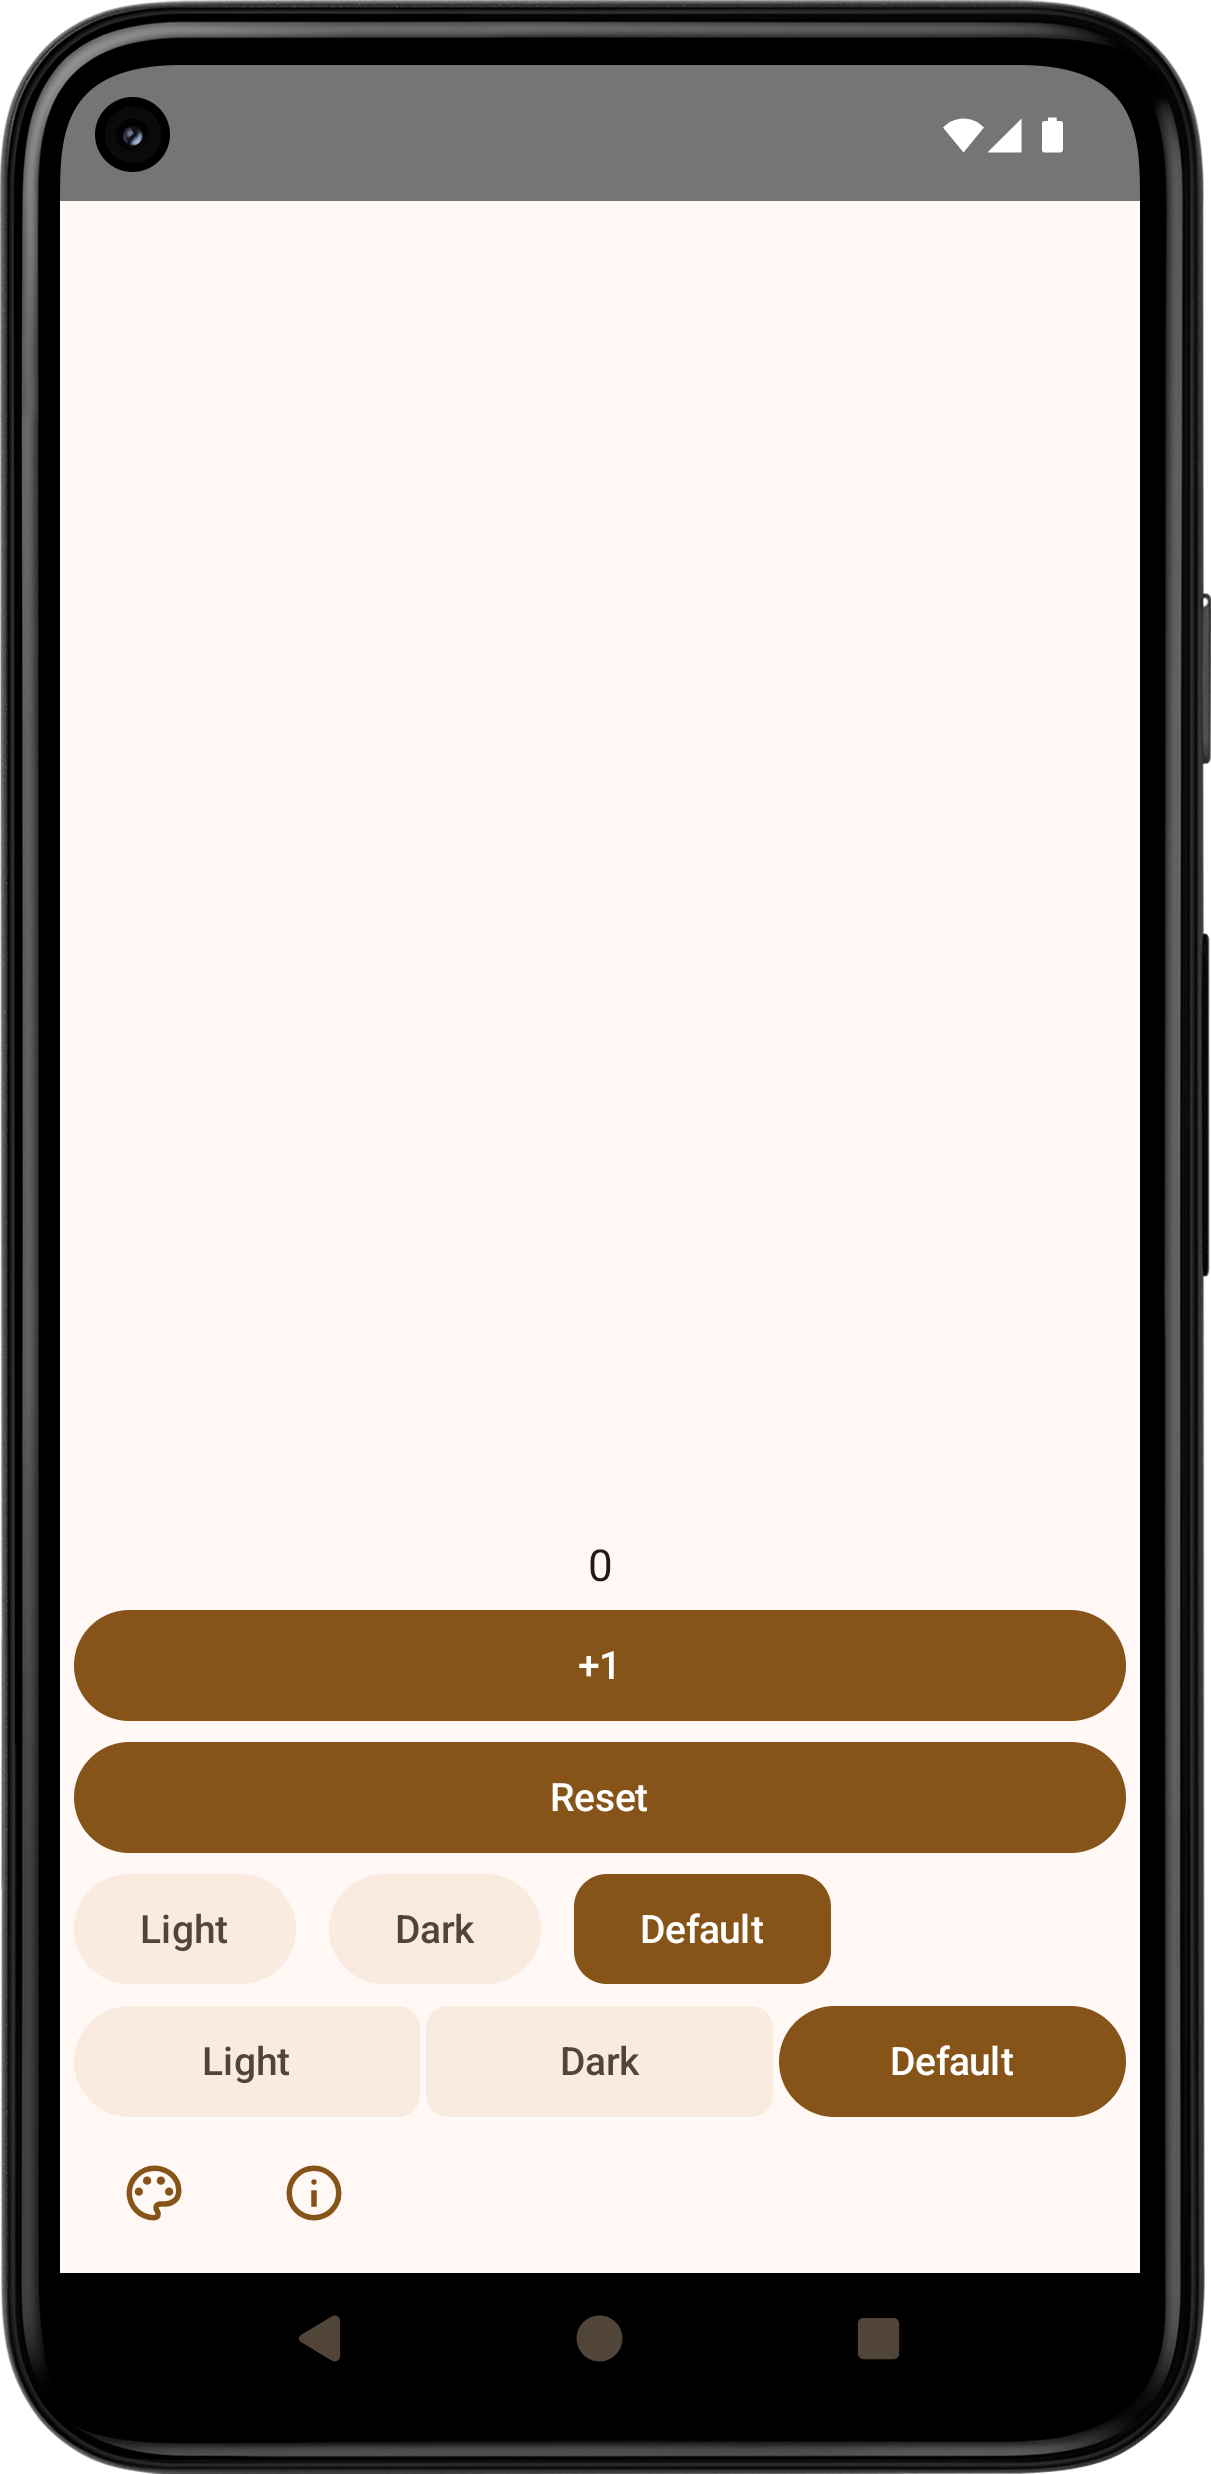
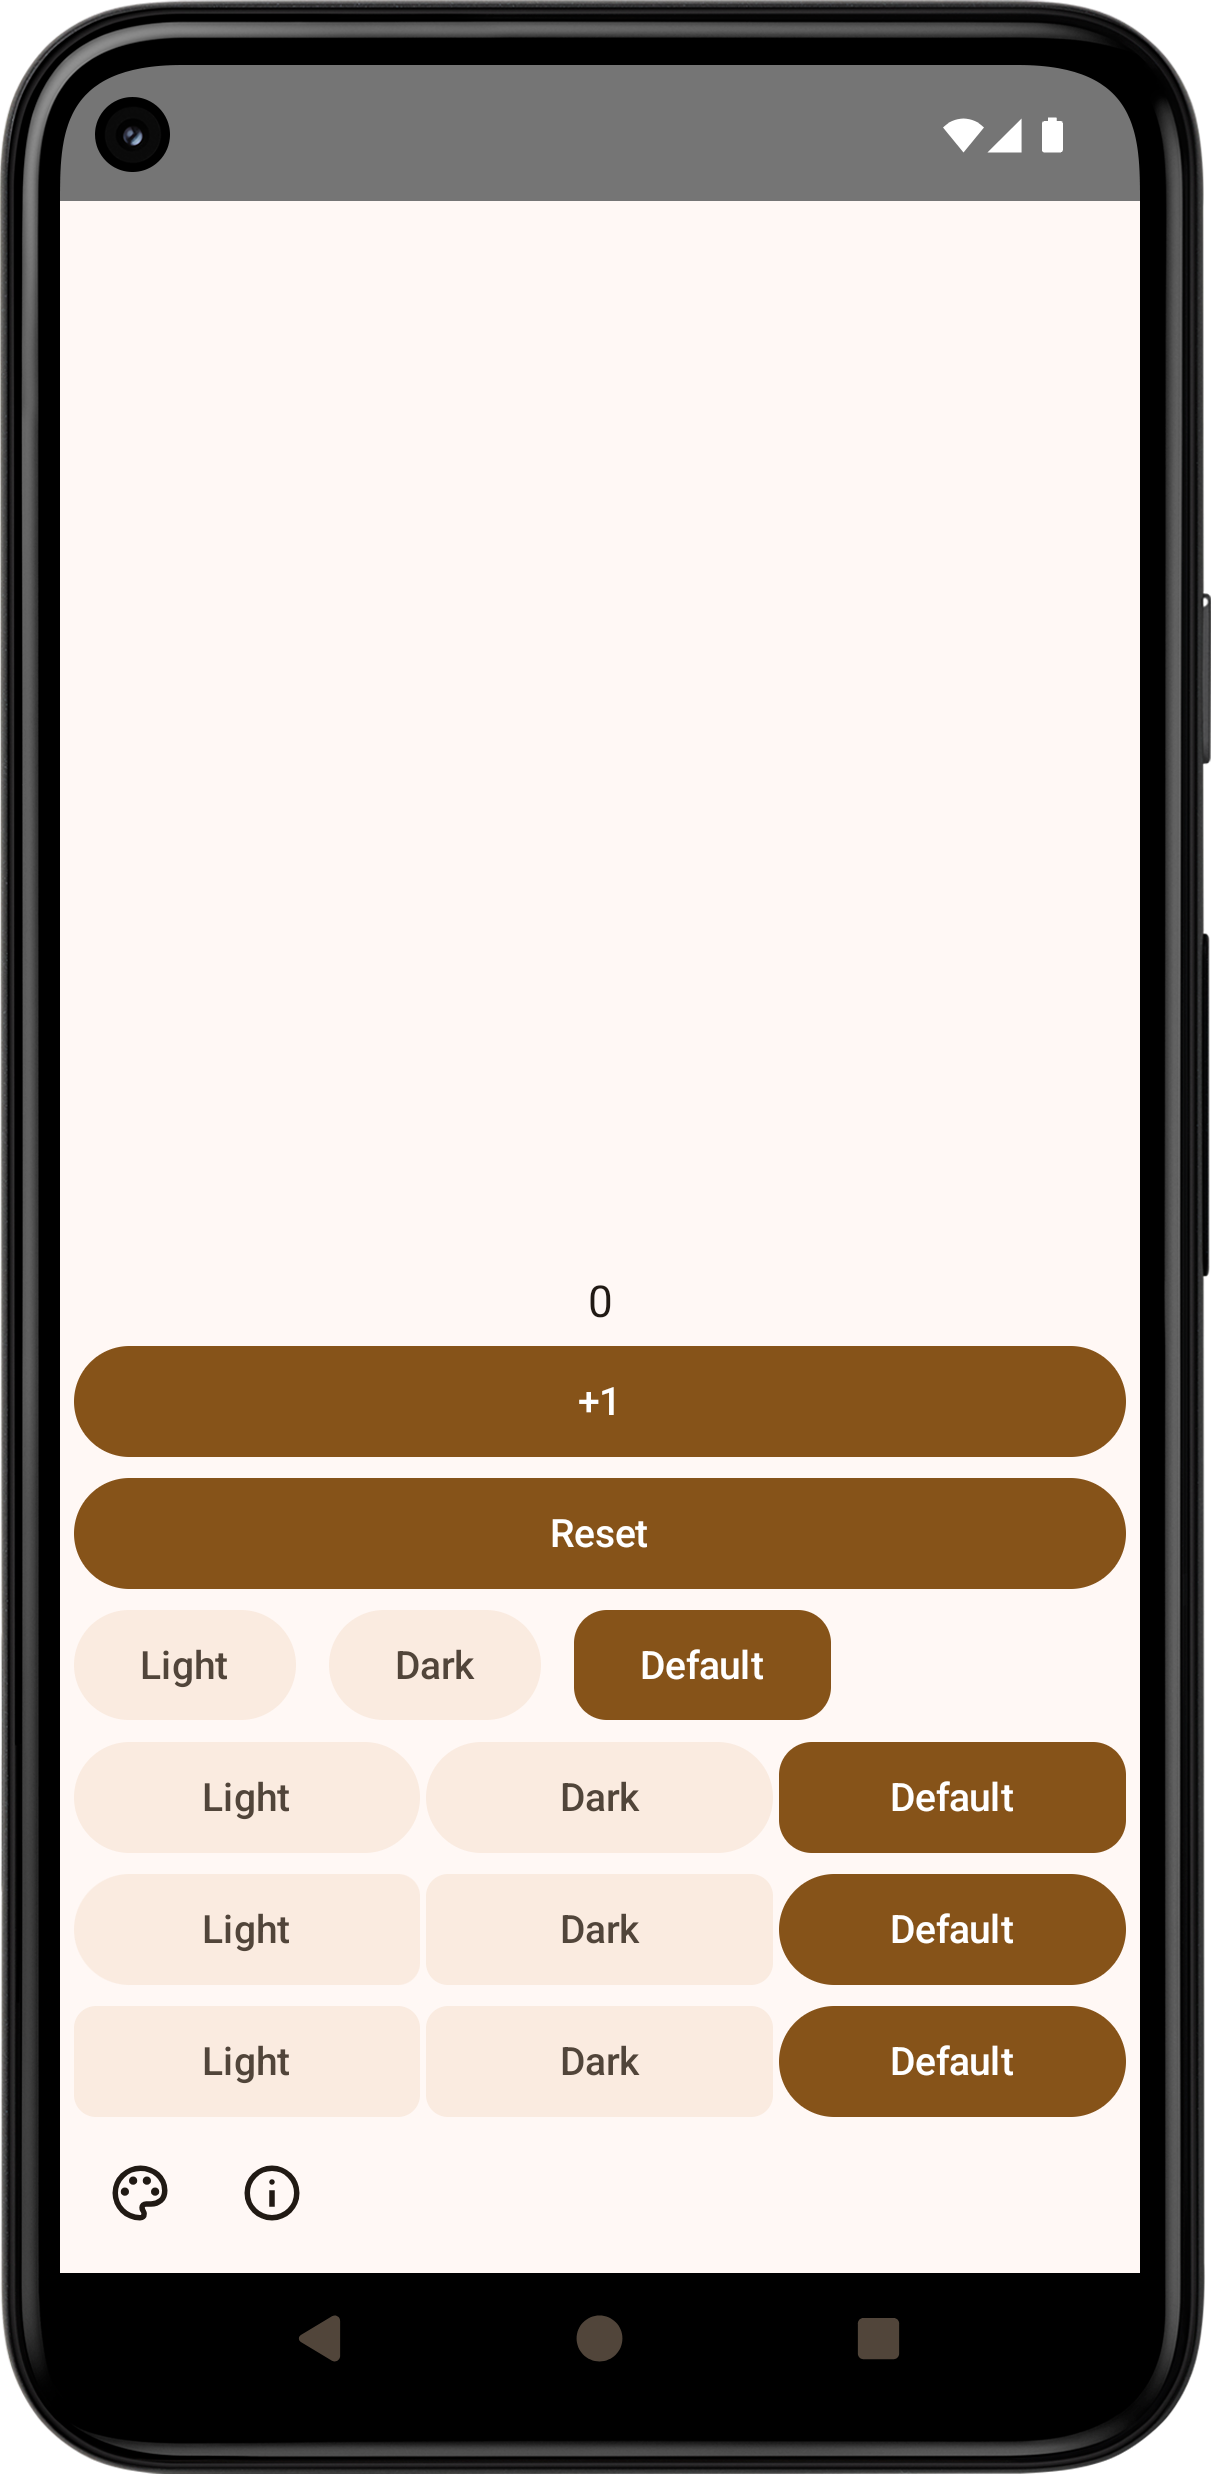
Update

Changed region(s): [[0.0611, 0.5291, 0.9472, 0.8092], [0.1833, 0.8715, 0.275, 0.9026], [0.0917, 0.8715, 0.1528, 0.9026]]

diff --git a/counter/src/main/java/com/github/manabu_nakamura/counter/MainActivity.kt b/counter/src/main/java/com/github/manabu_nakamura/counter/MainActivity.kt
@@ -24,6 +24,8 @@ import androidx.compose.material3.ButtonGroup
 import androidx.compose.material3.ButtonGroupDefaults
 import androidx.compose.material3.ExperimentalMaterial3Api
 import androidx.compose.material3.Icon
+import androidx.compose.material3.IconButton
+import androidx.compose.material3.IconButtonDefaults
 import androidx.compose.material3.MaterialTheme
 import androidx.compose.material3.ModalBottomSheet
 import androidx.compose.material3.PlainTooltip
@@ -310,12 +312,82 @@ class MainActivity : ComponentActivity() {
                                     Modifier.weight(
                                         1f
                                     ),
+//                                    shapes = when (index) {
+//                                        0 -> ButtonGroupDefaults.connectedLeadingButtonShapes()
+//                                        themes.lastIndex -> ButtonGroupDefaults.connectedTrailingButtonShapes()
+//                                        else -> ButtonGroupDefaults.connectedMiddleButtonShapes()
+//                                    }
+//                                    shapes = ButtonGroupDefaults.connectedMiddleButtonShapes()
+                                ) {
+                                    Text(
+                                        theme
+                                    )
+                                }
+                            }
+                        }
+                        Row(
+                            Modifier.fillMaxWidth(),
+                            Arrangement.spacedBy(
+                                ButtonGroupDefaults.ConnectedSpaceBetween
+                            )
+                        ) {
+                            val themes = stringArrayResource(
+                                R.array.theme
+                            )
+                            var selectedIndex = theme()
+                            themes.forEachIndexed { index, theme ->
+                                ToggleButton(
+                                    selectedIndex == index,
+                                    {
+                                        selectedIndex = index
+                                        theme(
+                                            index
+                                        )
+                                    },
+                                    Modifier.weight(
+                                        1f
+                                    ),
                                     shapes = when (index) {
                                         0 -> ButtonGroupDefaults.connectedLeadingButtonShapes()
                                         themes.lastIndex -> ButtonGroupDefaults.connectedTrailingButtonShapes()
                                         else -> ButtonGroupDefaults.connectedMiddleButtonShapes()
                                     }
 //                                    shapes = ButtonGroupDefaults.connectedMiddleButtonShapes()
+                                ) {
+                                    Text(
+                                        theme
+                                    )
+                                }
+                            }
+                        }
+                        Row(
+                            Modifier.fillMaxWidth(),
+                            Arrangement.spacedBy(
+                                ButtonGroupDefaults.ConnectedSpaceBetween
+                            )
+                        ) {
+                            val themes = stringArrayResource(
+                                R.array.theme
+                            )
+                            var selectedIndex = theme()
+                            themes.forEachIndexed { index, theme ->
+                                ToggleButton(
+                                    selectedIndex == index,
+                                    {
+                                        selectedIndex = index
+                                        theme(
+                                            index
+                                        )
+                                    },
+                                    Modifier.weight(
+                                        1f
+                                    ),
+//                                    shapes = when (index) {
+//                                        0 -> ButtonGroupDefaults.connectedLeadingButtonShapes()
+//                                        themes.lastIndex -> ButtonGroupDefaults.connectedTrailingButtonShapes()
+//                                        else -> ButtonGroupDefaults.connectedMiddleButtonShapes()
+//                                    }
+                                    shapes = ButtonGroupDefaults.connectedMiddleButtonShapes()
                                 ) {
                                     Text(
                                         theme
@@ -339,11 +411,11 @@ class MainActivity : ComponentActivity() {
                                 },
                                 rememberTooltipState()
                             ) {
-                                TextButton(
+                                IconButton(
                                     {
                                         bottomSheet = true
                                     },
-                                    ButtonDefaults.shapes()
+                                    IconButtonDefaults.shapes()
                                 ) {
                                     Icon(
                                         painterResource(
@@ -370,11 +442,11 @@ class MainActivity : ComponentActivity() {
                                 },
                                 rememberTooltipState()
                             ) {
-                                TextButton(
+                                IconButton(
                                     {
                                         dialog = true
                                     },
-                                    ButtonDefaults.shapes()
+                                    IconButtonDefaults.shapes()
                                 ) {
                                     Icon(
                                         painterResource(

diff --git a/image/src/main/java/com/github/manabu_nakamura/image/MainActivity.kt b/image/src/main/java/com/github/manabu_nakamura/image/MainActivity.kt
@@ -30,6 +30,8 @@ import androidx.compose.material3.DropdownMenuItem
 import androidx.compose.material3.ExperimentalMaterial3Api
 import androidx.compose.material3.FlexibleBottomAppBar
 import androidx.compose.material3.Icon
+import androidx.compose.material3.IconButton
+import androidx.compose.material3.IconButtonDefaults
 import androidx.compose.material3.MaterialTheme
 import androidx.compose.material3.ModalBottomSheet
 import androidx.compose.material3.PlainTooltip
@@ -145,7 +147,7 @@ class MainActivity : ComponentActivity() {
                                 },
                                 rememberTooltipState()
                             ) {
-                                TextButton(
+                                IconButton(
                                     {
                                         picker.launch(
                                             PickVisualMediaRequest(
@@ -153,7 +155,7 @@ class MainActivity : ComponentActivity() {
                                             )
                                         )
                                     },
-                                    ButtonDefaults.shapes()
+                                    IconButtonDefaults.shapes()
                                 ) {
                                     Icon(
                                         painterResource(
@@ -186,11 +188,11 @@ class MainActivity : ComponentActivity() {
                                     },
                                     rememberTooltipState()
                                 ) {
-                                    TextButton(
+                                    IconButton(
                                         {
                                             expanded = !expanded
                                         },
-                                        ButtonDefaults.shapes()
+                                        IconButtonDefaults.shapes()
                                     ) {
                                         Icon(
                                             painterResource(
@@ -257,11 +259,11 @@ class MainActivity : ComponentActivity() {
                                 },
                                 rememberTooltipState()
                             ) {
-                                TextButton(
+                                IconButton(
                                     {
                                         bottomSheet = true
                                     },
-                                    ButtonDefaults.shapes()
+                                    IconButtonDefaults.shapes()
                                 ) {
                                     Icon(
                                         painterResource(
@@ -288,11 +290,11 @@ class MainActivity : ComponentActivity() {
                                 },
                                 rememberTooltipState()
                             ) {
-                                TextButton(
+                                IconButton(
                                     {
                                         dialog = true
                                     },
-                                    ButtonDefaults.shapes()
+                                    IconButtonDefaults.shapes()
                                 ) {
                                     Icon(
                                         painterResource(
